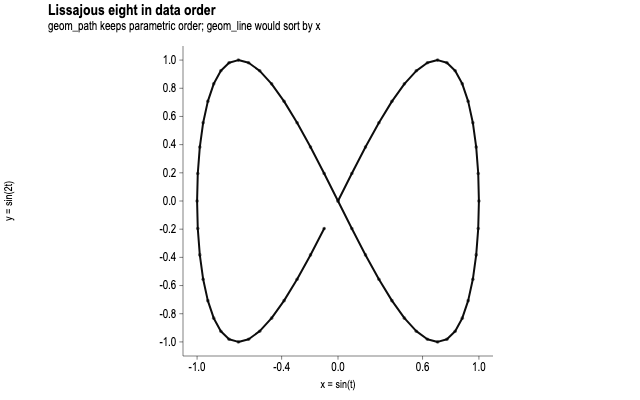
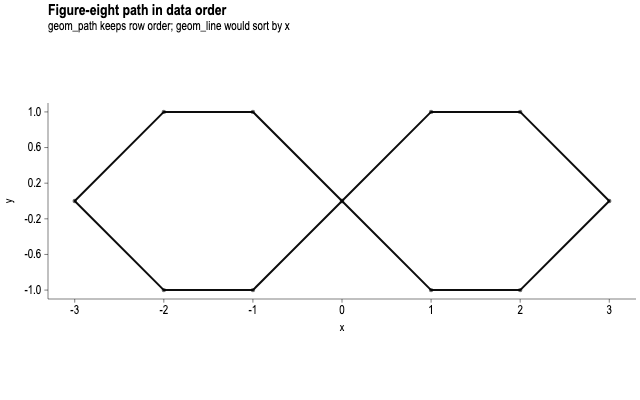
fix(docs): integer figure-eight path example for stable CI seeds
Replace Math.sin Lissajous samples with a small integer figure-eight so
oxlint approx-constant is quiet and playground-seeds stay byte-stable on
Linux CI. Recapture gallery light + provenance.

diff --git a/examples/path/trajectory/data.ts b/examples/path/trajectory/data.ts
@@ -1,18 +1,24 @@
 /**
- * Lissajous figure-eight (a=1, b=2) sampled in parametric order.
+ * Closed figure-eight polyline in data order.
  *
- * x = sin(t), y = sin(2t) for t ∈ [0, 2π). x is non-monotonic, so
- * geom_line would re-order the vertices and destroy the loop;
- * geom_path keeps the parametric data order and draws the eight.
+ * Vertices intentionally revisit x (and cross themselves). geom_line would
+ * sort by x and scramble the loops; geom_path keeps row order (#788).
  *
- * Deterministic 64 samples — no RNG.
+ * Integer coordinates only — no Math.sin / transcendental literals (oxlint
+ * approx-constant) and byte-stable playground seeds across hosts.
  */
-export const lissajousEight: { t: number; x: number; y: number }[] = (() => {
-  const n = 64;
-  const rows: { t: number; x: number; y: number }[] = [];
-  for (let i = 0; i < n; i++) {
-    const t = (i / n) * Math.PI * 2;
-    rows.push({ t, x: Math.sin(t), y: Math.sin(2 * t) });
-  }
-  return rows;
-})();
+export const figureEight: { x: number; y: number }[] = [
+  { x: 0, y: 0 },
+  { x: 1, y: 1 },
+  { x: 2, y: 1 },
+  { x: 3, y: 0 },
+  { x: 2, y: -1 },
+  { x: 1, y: -1 },
+  { x: 0, y: 0 },
+  { x: -1, y: 1 },
+  { x: -2, y: 1 },
+  { x: -3, y: 0 },
+  { x: -2, y: -1 },
+  { x: -1, y: -1 },
+  { x: 0, y: 0 },
+];

diff --git a/examples/path/trajectory/spec.ts b/examples/path/trajectory/spec.ts
@@ -1,21 +1,21 @@
 import { aes, gg } from "@ggsvelte/spec";
 
 import { defineExample } from "../../define.js";
-import { lissajousEight } from "./data.js";
+import { figureEight } from "./data.js";
 
 export default defineExample(
   // geom_path connects in data (row) order within each group — no x-sort.
-  // A Lissajous eight has non-monotonic x; sorting by x would scramble it.
-  gg(lissajousEight, aes({ x: "x", y: "y" }))
+  // This figure-eight revisits x; sorting by x would scramble the loops.
+  gg(figureEight, aes({ x: "x", y: "y" }))
     .geomPath({ linewidth: 2, alpha: 0.95 })
-    .geomPoint({ size: 1.8, alpha: 0.55 })
+    .geomPoint({ size: 2.2, alpha: 0.55 })
     .coordFixed()
     .theme("classic")
     .labs({
-      title: "Lissajous eight in data order",
-      subtitle: "geom_path keeps parametric order; geom_line would sort by x",
-      x: "x = sin(t)",
-      y: "y = sin(2t)",
+      title: "Figure-eight path in data order",
+      subtitle: "geom_path keeps row order; geom_line would sort by x",
+      x: "x",
+      y: "y",
     })
     .spec(),
 );

diff --git a/examples/path/trajectory/Example.svelte b/examples/path/trajectory/Example.svelte
@@ -8,18 +8,18 @@
     ThemeClassic,
   } from "@ggsvelte/svelte";
 
-  import { lissajousEight } from "./data.js";
+  import { figureEight } from "./data.js";
 </script>
 
-<GGPlot data={lissajousEight} aes={{ x: "x", y: "y" }} width={640} height={400}>
+<GGPlot data={figureEight} aes={{ x: "x", y: "y" }} width={640} height={400}>
   <ThemeClassic />
   <CoordFixed />
   <Labs
-    title="Lissajous eight in data order"
-    subtitle="geom_path keeps parametric order; geom_line would sort by x"
-    x="x = sin(t)"
-    y="y = sin(2t)"
+    title="Figure-eight path in data order"
+    subtitle="geom_path keeps row order; geom_line would sort by x"
+    x="x"
+    y="y"
   />
   <GeomPath linewidth={2} alpha={0.95} />
-  <GeomPoint size={1.8} alpha={0.55} />
+  <GeomPoint size={2.2} alpha={0.55} />
 </GGPlot>

diff --git a/examples/manifest.ts b/examples/manifest.ts
@@ -392,7 +392,7 @@ export const EXAMPLES: readonly ExampleManifestEntry[] = [
     name: "trajectory",
     title: "Path trajectory (data order)",
     description: "",
-    tags: ["path", "line", "trajectory", "lissajous", "data-order"],
+    tags: ["path", "line", "trajectory", "figure-eight", "data-order"],
     docsSection: "Lines & time",
     hasData: true,
   },
